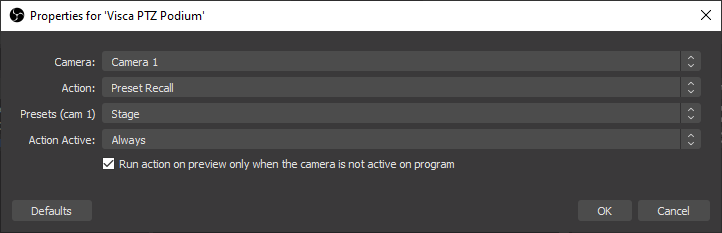
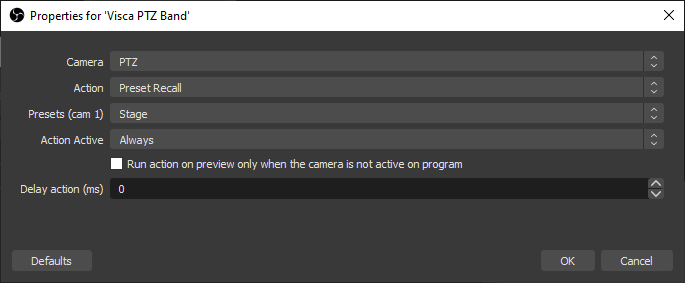
Action delay feature added to the scene settings, to delay execution of Visca command

diff --git a/README.md b/README.md
@@ -38,11 +38,11 @@ Before the plugin can be used in a scene, it requires configuration in the `Scri
 
 Start by enumerating the number of cameras cameras that you want to control.
 For each camera a set of configuration properties will be shown:
-- Name: A friendly name for easy recognition of the camera
-- Address: The IP address at which the camera is available.
-- Port: The plugin by default uses _UDP_ port `52381`. Change this port when needed, e.g. to `1259` for a PTZOptics camera.
-- Mode: The operating mode of the plugin. The default is `Generic`, which follows the original (Sony) Visca specification. Other supported modes are `PTZOptics`, to send commands according the PTZOptics Visca protocol.
-- The list of presets that you want to configure for the camera
+- _Name_: A friendly name for easy recognition of the camera
+- _Address_: The IP address at which the camera is available.
+- _Port_: The plugin by default uses _UDP_ port `52381`. Change this port when needed, e.g. to `1259` for a PTZOptics camera.
+- _Mode_: The operating mode of the plugin. The default is `Generic`, which follows the original (Sony) Visca specification. Other supported modes are `PTZOptics`, to send commands according the PTZOptics Visca protocol.
+- _Presets_: The list of presets that you want to configure for the camera
 
 **Important: Reload the script after changing the address, port of mode configuration!**
 
@@ -58,14 +58,25 @@ The separator can be `:`, `=` or `-`.
 Valid examples are `0: Home`, `5 = Pastor` or `Stage - 6`
 
 ## Usage
+### In a scene
 To control a camera, add a `Visca Camera Control` source to a scene.
 ![Source configuration](images/docs/scene_settings.png)
 
 In the source settings, select the camera and the action that should be executed.
-When the action 'Preset Recall' is chosen, the preset also needs to be chosen. These presets needs to be configured per camera in the script settings, see [configuration](#configuration).
-For the action Pan/Tilt, the direction and speed also needs to be selected. Note that this action does not use a specific starting position, the pan action starts from the camera position that is actual when the scene becomes active.
-The camera action is executed when either the scene in which the source is used becomes active in preview, in program, or both, depending on the selected entry in the selection.
+- _Camera_: The camera configured in the plugin (see [configuration](#configuration))
+- _Action_: Select the action that needs to be executed
+  - When the action 'Preset Recall' is chosen, the preset also needs to be chosen.
+  These presets need to be configured per camera in the script settings, see [configuration](#configuration).
+  - For the action 'Pan/Tilt', the direction and speed also needs to be selected. 
+  Note that this action does not use a specific starting position, the pan action starts from the camera position that is actual when the scene becomes active.
+  - For 'Zoom In' and 'Zoom Out', the animation speeds determines the zoom speed.
+- _Action Active_: The camera action is executed when either the scene in which the source is used becomes active in preview, in program, or both, depending on the selected entry in the selection.
+- To make sure that a preview does not change settings of a camera that is on program, select the checkbox 'Run action on preview only when the camera is not active on program'.
+- _Delay Action_: When not set (left to 0), the action is immediately executed when the scene becomes active.
+To delay the action execution, for example to synchronize after completion of a transition, set it to the number of milliseconds to wait.
+This delay can also be used to run multiple actions in sequence
 
+### Hotkeys
 Presets 0-9, Pan/Tilt actions up/down/left/right and Zoom in/out can also be recalled via a hotkey.
 Focus commands can only be called via a hotkey.
 To use any of these actions, configure a hotkey in the global OBS setttings.
